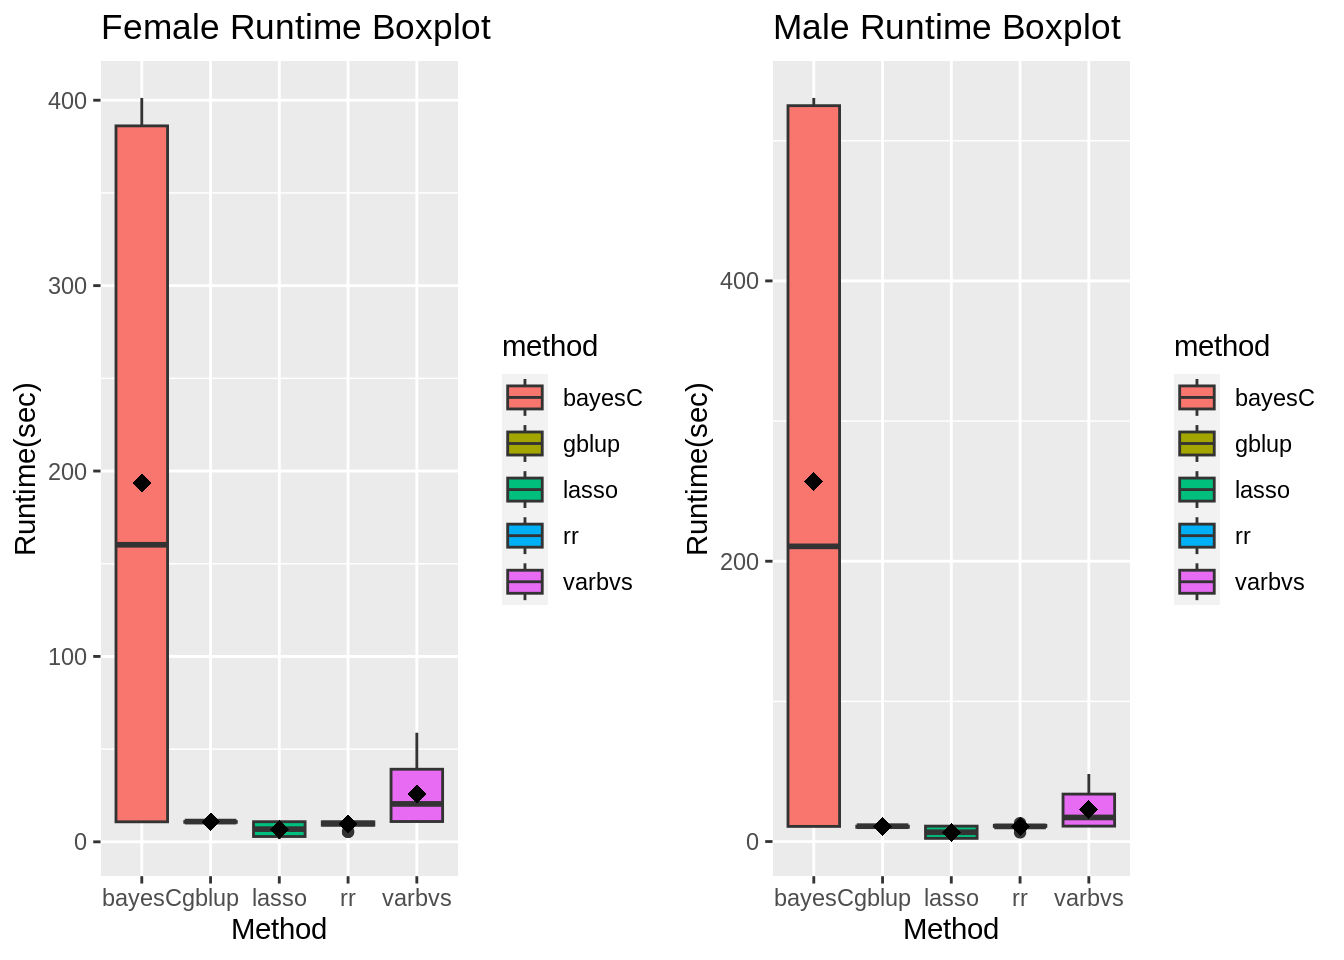
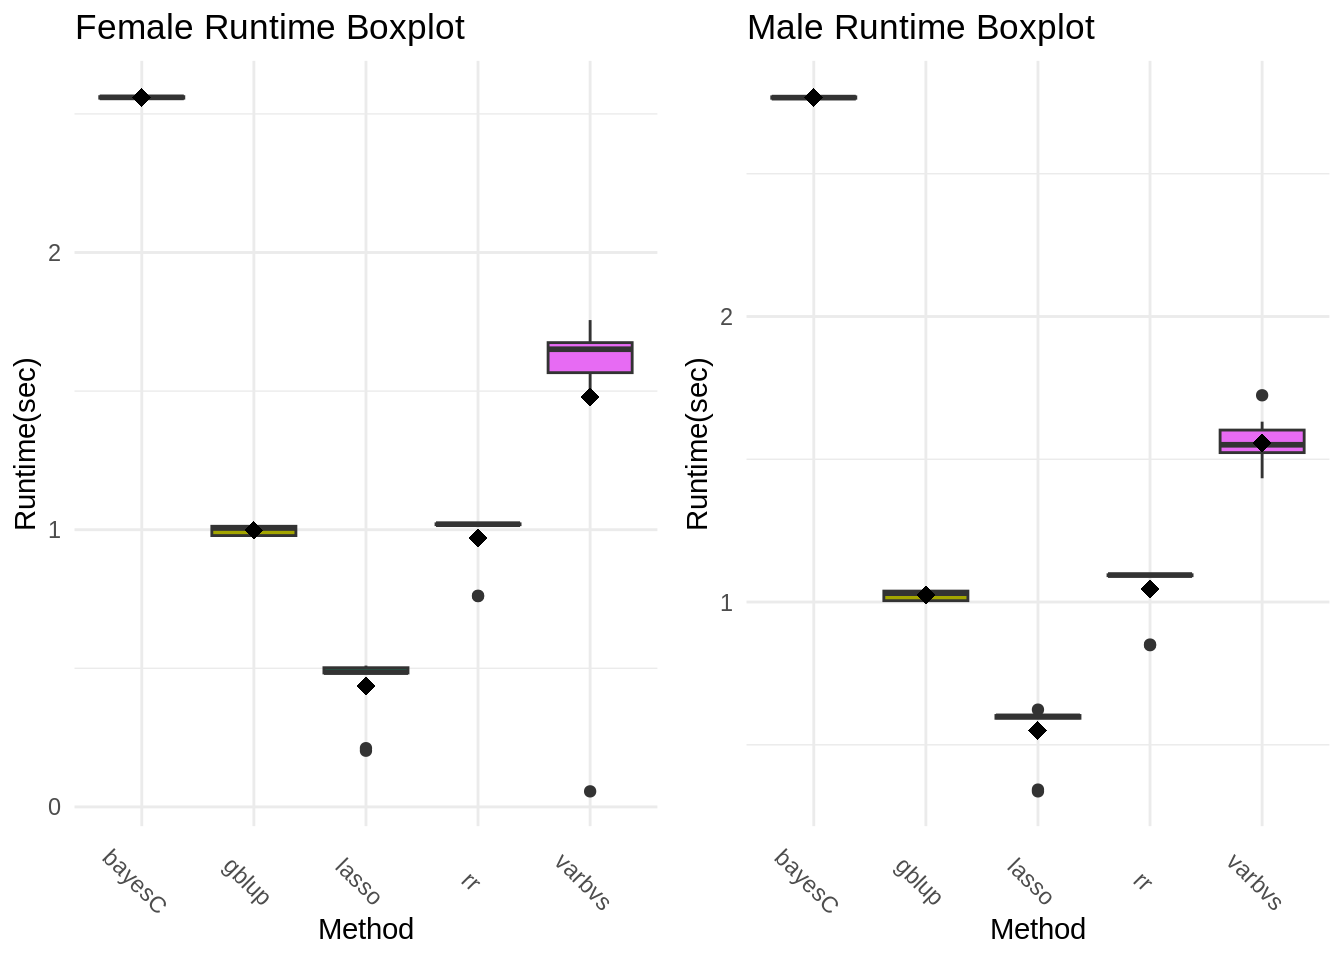
Build site.

diff --git a/docs/methodPred.html b/docs/methodPred.html
@@ -394,7 +394,7 @@ div.tocify {
 <div class="tab-content">
 <div id="summary" class="tab-pane fade in active">
 <p>
-<strong>Last updated:</strong> 2023-04-24
+<strong>Last updated:</strong> 2023-04-26
 </p>
 <p>
 <strong>Checks:</strong> <span class="glyphicon glyphicon-ok text-success" aria-hidden="true"></span> 7 <span class="glyphicon glyphicon-exclamation-sign text-danger" aria-hidden="true"></span> 0
@@ -485,16 +485,16 @@ This reproducible <a href="https://rmarkdown.rstudio.com">R Markdown</a> analysi
 <div class="panel panel-default">
 <div class="panel-heading">
 <p class="panel-title">
-<a data-toggle="collapse" data-parent="#workflowr-checks" href="#strongRepositoryversionstrongahrefhttpsgithubcomnklimkodgrpstarvetree18e3315e6ddcb35d441b49be5a6c41340aad4621targetblank18e3315a"> <span class="glyphicon glyphicon-ok text-success" aria-hidden="true"></span> <strong>Repository version:</strong> <a href="https://github.com/nklimko/dgrp-starve/tree/18e3315e6ddcb35d441b49be5a6c41340aad4621" target="_blank">18e3315</a> </a>
+<a data-toggle="collapse" data-parent="#workflowr-checks" href="#strongRepositoryversionstrongahrefhttpsgithubcomnklimkodgrpstarvetreecf0f683d12b385ce11ce754c3f58e705531957f9targetblankcf0f683a"> <span class="glyphicon glyphicon-ok text-success" aria-hidden="true"></span> <strong>Repository version:</strong> <a href="https://github.com/nklimko/dgrp-starve/tree/cf0f683d12b385ce11ce754c3f58e705531957f9" target="_blank">cf0f683</a> </a>
 </p>
 </div>
[2 lines of base64/hex data omitted]
 <div class="panel-body">
 <p>
 Great! You are using Git for version control. Tracking code development and connecting the code version to the results is critical for reproducibility.
 </p>
 <p>
-The results in this page were generated with repository version <a href="https://github.com/nklimko/dgrp-starve/tree/18e3315e6ddcb35d441b49be5a6c41340aad4621" target="_blank">18e3315</a>. See the <em>Past versions</em> tab to see a history of the changes made to the R Markdown and HTML files.
+The results in this page were generated with repository version <a href="https://github.com/nklimko/dgrp-starve/tree/cf0f683d12b385ce11ce754c3f58e705531957f9" target="_blank">cf0f683</a>. See the <em>Past versions</em> tab to see a history of the changes made to the R Markdown and HTML files.
 </p>
 <p>
 Note that you need to be careful to ensure that all relevant files for the analysis have been committed to Git prior to generating the results (you can use <code>wflow_publish</code> or <code>wflow_git_commit</code>). workflowr only checks the R Markdown file, but you know if there are other scripts or data files that it depends on. Below is the status of the Git repository when the results were generated:
@@ -559,6 +559,7 @@ Untracked files:
     Untracked:  snake/
 
 Unstaged changes:
+    Modified:   README.md
     Deleted:    analysis/gremlo.R
     Deleted:    analysis/methodComp-f.Rmd
     Deleted:    analysis/methodComp-m.Rmd
@@ -618,6 +619,40 @@ Message
 </tr>
 </thead>
 <tbody>
+<tr>
+<td>
+Rmd
+</td>
+<td>
+<a href="https://github.com/nklimko/dgrp-starve/blob/cf0f683d12b385ce11ce754c3f58e705531957f9/analysis/methodPred.Rmd" target="_blank">cf0f683</a>
+</td>
+<td>
+nklimko
+</td>
+<td>
+2023-04-26
+</td>
+<td>
+wflow_publish("analysis/methodPred.Rmd")
+</td>
+</tr>
+<tr>
+<td>
+html
+</td>
+<td>
+<a href="https://rawcdn.githack.com/nklimko/dgrp-starve/7f62ff3b769af9fa41e4fafe3c7cb79b7335d3da/docs/methodPred.html" target="_blank">7f62ff3</a>
+</td>
+<td>
+nklimko
+</td>
+<td>
+2023-04-24
+</td>
+<td>
+Build site.
+</td>
+</tr>
 <tr>
 <td>
 Rmd
@@ -862,12 +897,15 @@ label &lt;- c(rep(&quot;varbvs&quot;, iter), rep(&quot;lasso&quot;, iter), rep(&
 
 data &lt;- data.table(cor=as.numeric(temp), method=label)
 
-gg[[3]] &lt;- ggplot(data, aes(x=method, y=cor, fill=method)) +
+gg[[1]] &lt;- ggplot(data, aes(x=method, y=cor, fill=method)) +
   geom_boxplot() +
+  theme_minimal() +
   ggtitle(&quot;Female Correlations Boxplot&quot;) +
   labs(x=&quot;Method&quot;, y=&quot;Correlation Coefficient&quot;) +
   stat_summary(fun=mean, color=&quot;black&quot;, geom=&quot;point&quot;, 
-               shape=18, size=3, show.legend=FALSE)
+               shape=18, size=3, show.legend=FALSE) +
+  theme(legend.position=&quot;none&quot;) + 
+  theme(axis.text.x = element_text(angle = -45))
 
 femaleCorr &lt;- c(bayesC=mean(bayesC),lasso=mean(na.omit(lasso)),rr=mean(rr),varbvs=mean(varbvs), gblup=mean(gblup))
 
@@ -881,12 +919,15 @@ gblup &lt;- readRDS(&quot;snake/data/2_cor/gblup_m_starvation.Rds&quot;)
 temp &lt;- c(varbvs, lasso, rr, bayesC, gblup)
 data &lt;- data.table(cor=as.numeric(temp), method=label)
 
-gg[[4]] &lt;- ggplot(data, aes(x=method, y=cor, fill=method)) +
+gg[[2]] &lt;- ggplot(data, aes(x=method, y=cor, fill=method)) +
   geom_boxplot() +
+  theme_minimal() +
   ggtitle(&quot;Male Correlations Boxplot&quot;) +
   labs(x=&quot;Method&quot;, y=&quot;Correlation Coefficient&quot;) +
   stat_summary(fun=mean, color=&quot;black&quot;, geom=&quot;point&quot;, 
-               shape=18, size=3, show.legend=FALSE)
+               shape=18, size=3, show.legend=FALSE) +
+  theme(legend.position=&quot;none&quot;) + 
+  theme(axis.text.x = element_text(angle = -45))
 
 maleCorr &lt;- c(bayesC=mean(bayesC),lasso=mean(na.omit(lasso)),rr=mean(rr),varbvs=mean(varbvs), gblup=mean(gblup))</code></pre>
 <pre class="r"><code>iter &lt;- 10
@@ -896,23 +937,28 @@ lasso &lt;- readRDS(&quot;snake/data/2_time/lasso_f_starvation.Rds&quot;)
 rr &lt;- readRDS(&quot;snake/data/2_time/rr_f_starvation.Rds&quot;)
 varbvs &lt;- readRDS(&quot;snake/data/2_time/varbvs_f_starvation.Rds&quot;)
 gblup &lt;- readRDS(&quot;snake/data/2_time/gblup_f_starvation.Rds&quot;)
-
+gblup &lt;- gblup[1:10]
 
 bayesC &lt;- bayesC * 60
 
 
 temp &lt;- c(varbvs, lasso, rr, bayesC, gblup)
+
+temp &lt;- log10(temp)
 label &lt;- c(rep(&quot;varbvs&quot;, iter), rep(&quot;lasso&quot;, iter), rep(&quot;rr&quot;, iter), rep(&quot;bayesC&quot;, iter), rep(&quot;gblup&quot;, iter)) 
-data &lt;- data.table(cor=as.numeric(temp), method=label)</code></pre>
-<pre><code>Warning in as.data.table.list(x, keep.rownames = keep.rownames, check.names =
-check.names, : Item 2 has 50 rows but longest item has 90; recycled with
-remainder.</code></pre>
-<pre class="r"><code>gg[[5]] &lt;- ggplot(data, aes(x=method, y=cor, fill=method)) +
+data &lt;- data.table(cor=as.numeric(temp), method=label)
+
+
+gg[[3]] &lt;- ggplot(data, aes(x=method, y=cor, fill=method)) +
   geom_boxplot() +
+  theme_minimal() +
   ggtitle(&quot;Female Runtime Boxplot&quot;) +
   labs(x=&quot;Method&quot;, y=&quot;Runtime(sec)&quot;) +
   stat_summary(fun=mean, color=&quot;black&quot;, geom=&quot;point&quot;, 
-               shape=18, size=3, show.legend=FALSE)
+               shape=18, size=3, show.legend=FALSE) + 
+    theme(legend.position=&quot;none&quot;) + 
+  theme(axis.text.x = element_text(angle = -45))
+
 
 femaleTime &lt;- c(bayesC=mean(bayesC),lasso=mean(na.omit(lasso)),rr=mean(rr),varbvs=mean(varbvs), gblup=mean(gblup))
 
@@ -922,27 +968,33 @@ lasso &lt;- readRDS(&quot;snake/data/2_time/lasso_m_starvation.Rds&quot;)
 rr &lt;- readRDS(&quot;snake/data/2_time/rr_m_starvation.Rds&quot;)
 varbvs &lt;- readRDS(&quot;snake/data/2_time/varbvs_m_starvation.Rds&quot;)
 gblup &lt;- readRDS(&quot;snake/data/2_time/gblup_m_starvation.Rds&quot;)
-
+gblup &lt;- gblup[1:10]
 
 bayesC &lt;- bayesC * 60
 
 
+
 temp &lt;- c(varbvs, lasso, rr, bayesC, gblup)
-data &lt;- data.table(cor=as.numeric(temp), method=label)</code></pre>
-<pre><code>Warning in as.data.table.list(x, keep.rownames = keep.rownames, check.names =
-check.names, : Item 2 has 50 rows but longest item has 90; recycled with
-remainder.</code></pre>
-<pre class="r"><code>gg[[6]] &lt;- ggplot(data, aes(x=method, y=cor, fill=method)) +
+
+temp &lt;- log10(temp)
+label &lt;- c(rep(&quot;varbvs&quot;, iter), rep(&quot;lasso&quot;, iter), rep(&quot;rr&quot;, iter), rep(&quot;bayesC&quot;, iter), rep(&quot;gblup&quot;, iter)) 
+data &lt;- data.table(cor=as.numeric(temp), method=label)
+
+
+gg[[4]] &lt;- ggplot(data, aes(x=method, y=cor, fill=method)) +
   geom_boxplot() +
+  theme_minimal() +
   ggtitle(&quot;Male Runtime Boxplot&quot;) +
   labs(x=&quot;Method&quot;, y=&quot;Runtime(sec)&quot;) +
   stat_summary(fun=mean, color=&quot;black&quot;, geom=&quot;point&quot;, 
-               shape=18, size=3, show.legend=FALSE)
+               shape=18, size=3, show.legend=FALSE) + 
+    theme(legend.position=&quot;none&quot;) + 
+  theme(axis.text.x = element_text(angle = -45))
 
 maleTime &lt;- c(bayesC=mean(bayesC),lasso=mean(na.omit(lasso)),rr=mean(rr),varbvs=mean(varbvs), gblup=mean(gblup))</code></pre>
 <div id="correlation-coefficient-boxplots" class="section level3">
 <h3>Correlation Coefficient Boxplots</h3>
-<pre class="r"><code>plot_grid(gg[[3]],gg[[4]], ncol=2)</code></pre>
+<pre class="r"><code>plot_grid(gg[[1]],gg[[2]], ncol=2)</code></pre>
 <p><img src="figure/methodPred.Rmd/plot-print-1.png" width="672" style="display: block; margin: auto;" /></p>
 <p>
 <button type="button" class="btn btn-default btn-xs btn-workflowr btn-workflowr-fig" data-toggle="collapse" data-target="#fig-plot-print-1">
@@ -966,6 +1018,17 @@ Date
 </tr>
 </thead>
 <tbody>
+<tr>
+<td>
+<a href="https://github.com/nklimko/dgrp-starve/blob/7f62ff3b769af9fa41e4fafe3c7cb79b7335d3da/docs/figure/methodPred.Rmd/plot-print-1.png" target="_blank">7f62ff3</a>
+</td>
+<td>
+nklimko
+</td>
+<td>
+2023-04-24
+</td>
+</tr>
 <tr>
 <td>
 <a href="https://github.com/nklimko/dgrp-starve/blob/f055405c358448808d7e8b96b81f2a995bd65974/docs/figure/methodPred.Rmd/plot-print-1.png" target="_blank">f055405</a>
@@ -995,20 +1058,57 @@ nklimko
 </div>
 <div id="runtimes" class="section level3">
 <h3>Runtimes</h3>
-<pre class="r"><code>plot_grid(gg[[5]],gg[[6]], ncol=2)</code></pre>
+<pre class="r"><code>plot_grid(gg[[3]],gg[[4]], ncol=2)</code></pre>
 <p><img src="figure/methodPred.Rmd/runtime-print-1.png" width="672" style="display: block; margin: auto;" /></p>
+<p>
+<button type="button" class="btn btn-default btn-xs btn-workflowr btn-workflowr-fig" data-toggle="collapse" data-target="#fig-runtime-print-1">
+Past versions of runtime-print-1.png
+</button>
+</p>
+<div id="fig-runtime-print-1" class="collapse">
+<div class="table-responsive">
+<table class="table table-condensed table-hover">
+<thead>
+<tr>
+<th>
+Version
+</th>
+<th>
+Author
+</th>
+<th>
+Date
+</th>
+</tr>
+</thead>
+<tbody>
+<tr>
+<td>
+<a href="https://github.com/nklimko/dgrp-starve/blob/7f62ff3b769af9fa41e4fafe3c7cb79b7335d3da/docs/figure/methodPred.Rmd/runtime-print-1.png" target="_blank">7f62ff3</a>
+</td>
+<td>
+nklimko
+</td>
+<td>
+2023-04-24
+</td>
+</tr>
+</tbody>
+</table>
+</div>
+</div>
 </div>
 <div id="correlation-means" class="section level3">
 <h3>Correlation Means</h3>
 <p>bayesC lasso rr varbvs gblup</p>
-<p>Female: 0.3571273, 0.3813852, 0.3668104, 0.419731, 0.3577703</p>
-<p>Male: 0.3948696, 0.2571687, 0.4039055, 0.2194468, 0.3946048</p>
+<p>Female: 0.2814437, 0.3473642, 0.2810896, 0.4130008, 0.2799822</p>
+<p>Male: 0.3482745, 0.246062, 0.362574, 0.2554396, 0.3491399</p>
 </div>
 <div id="runtime-means" class="section level3">
 <h3>Runtime Means</h3>
 <p>bayesC lasso rr varbvs gblup</p>
-<p>Female: 376.2165983, 2.5724522, 8.2491514, 40.6274907, 10.8620253</p>
-<p>Male: 502.6722485, 2.2007852, 10.6701228, 34.5753582, 10.8488799</p>
+<p>Female: 362.6840455, 2.8234414, 9.5360448, 39.740173, 9.9515445</p>
+<p>Male: 584.0194797, 3.643057, 11.3666203, 36.7245345, 10.5636749</p>
 <pre class="r"><code>#FEMALE
 female &lt;- c(bayesC=mean(bayesC),lasso=mean(lasso),rr=mean(rr),varbvs=mean(varbvs))
 
